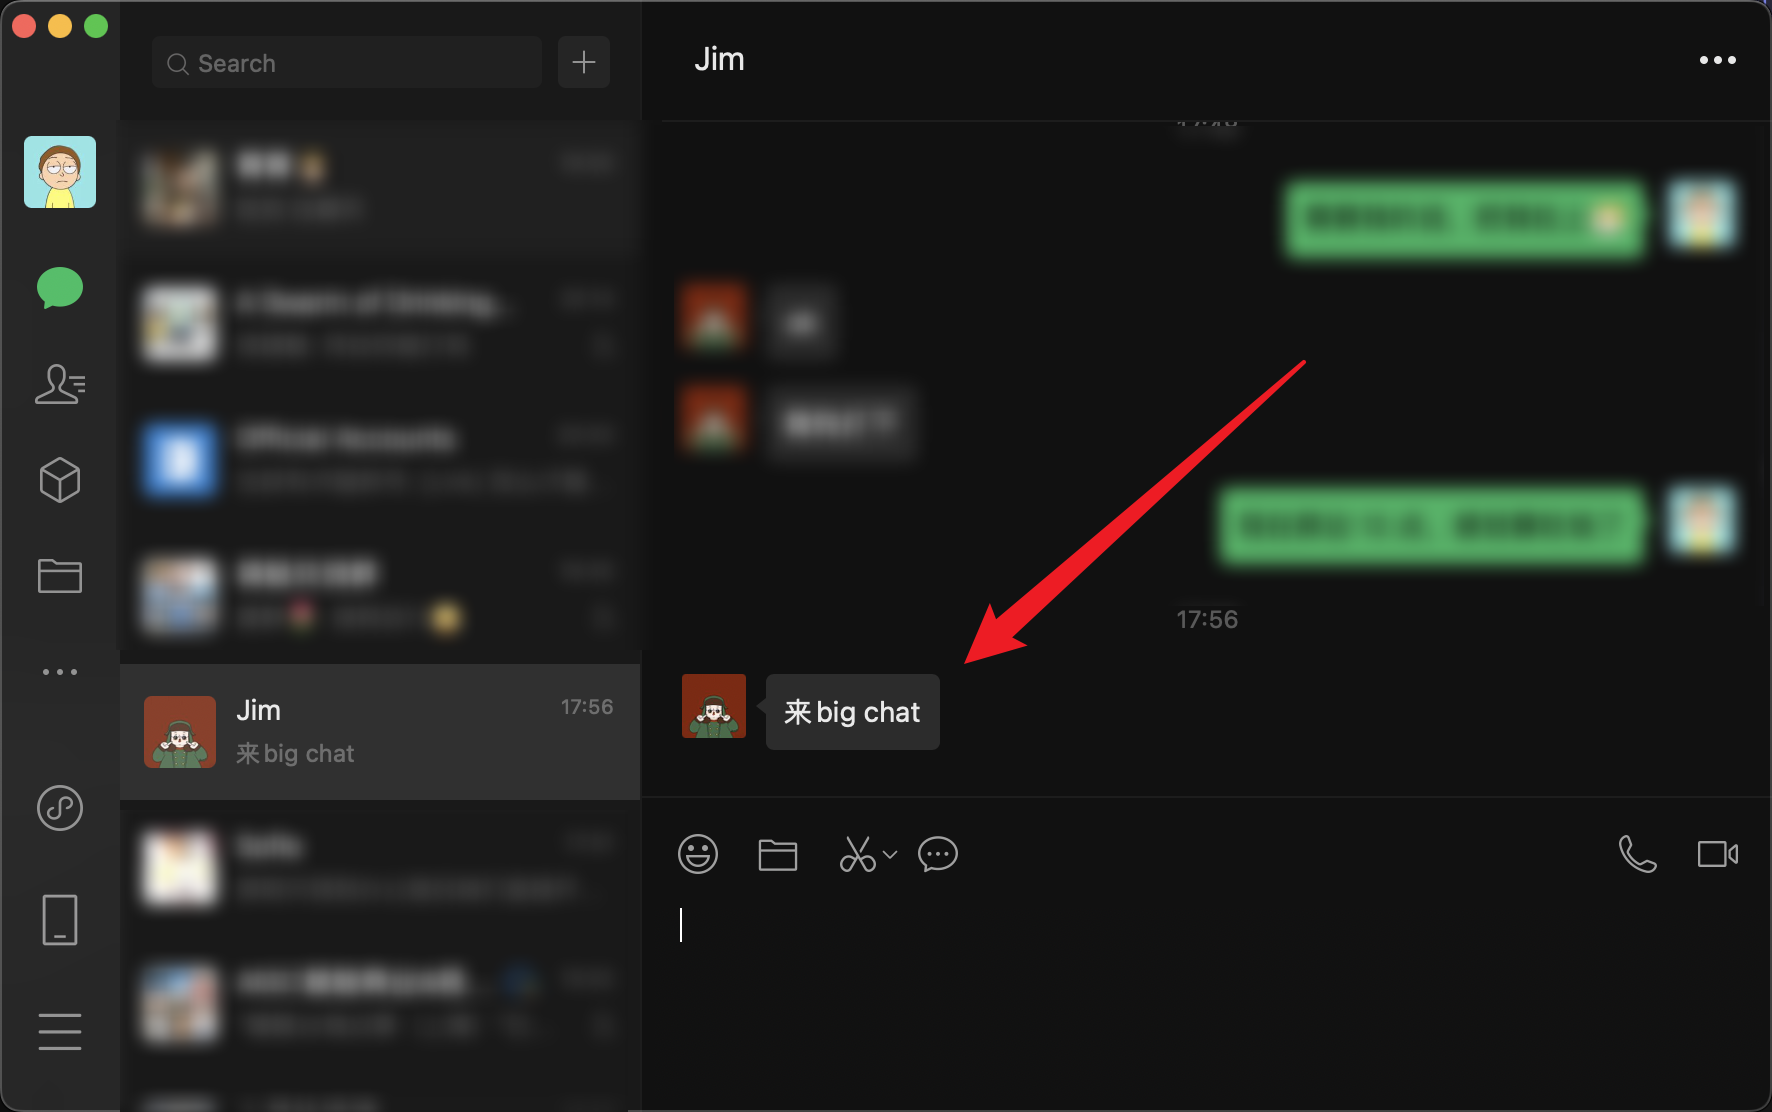
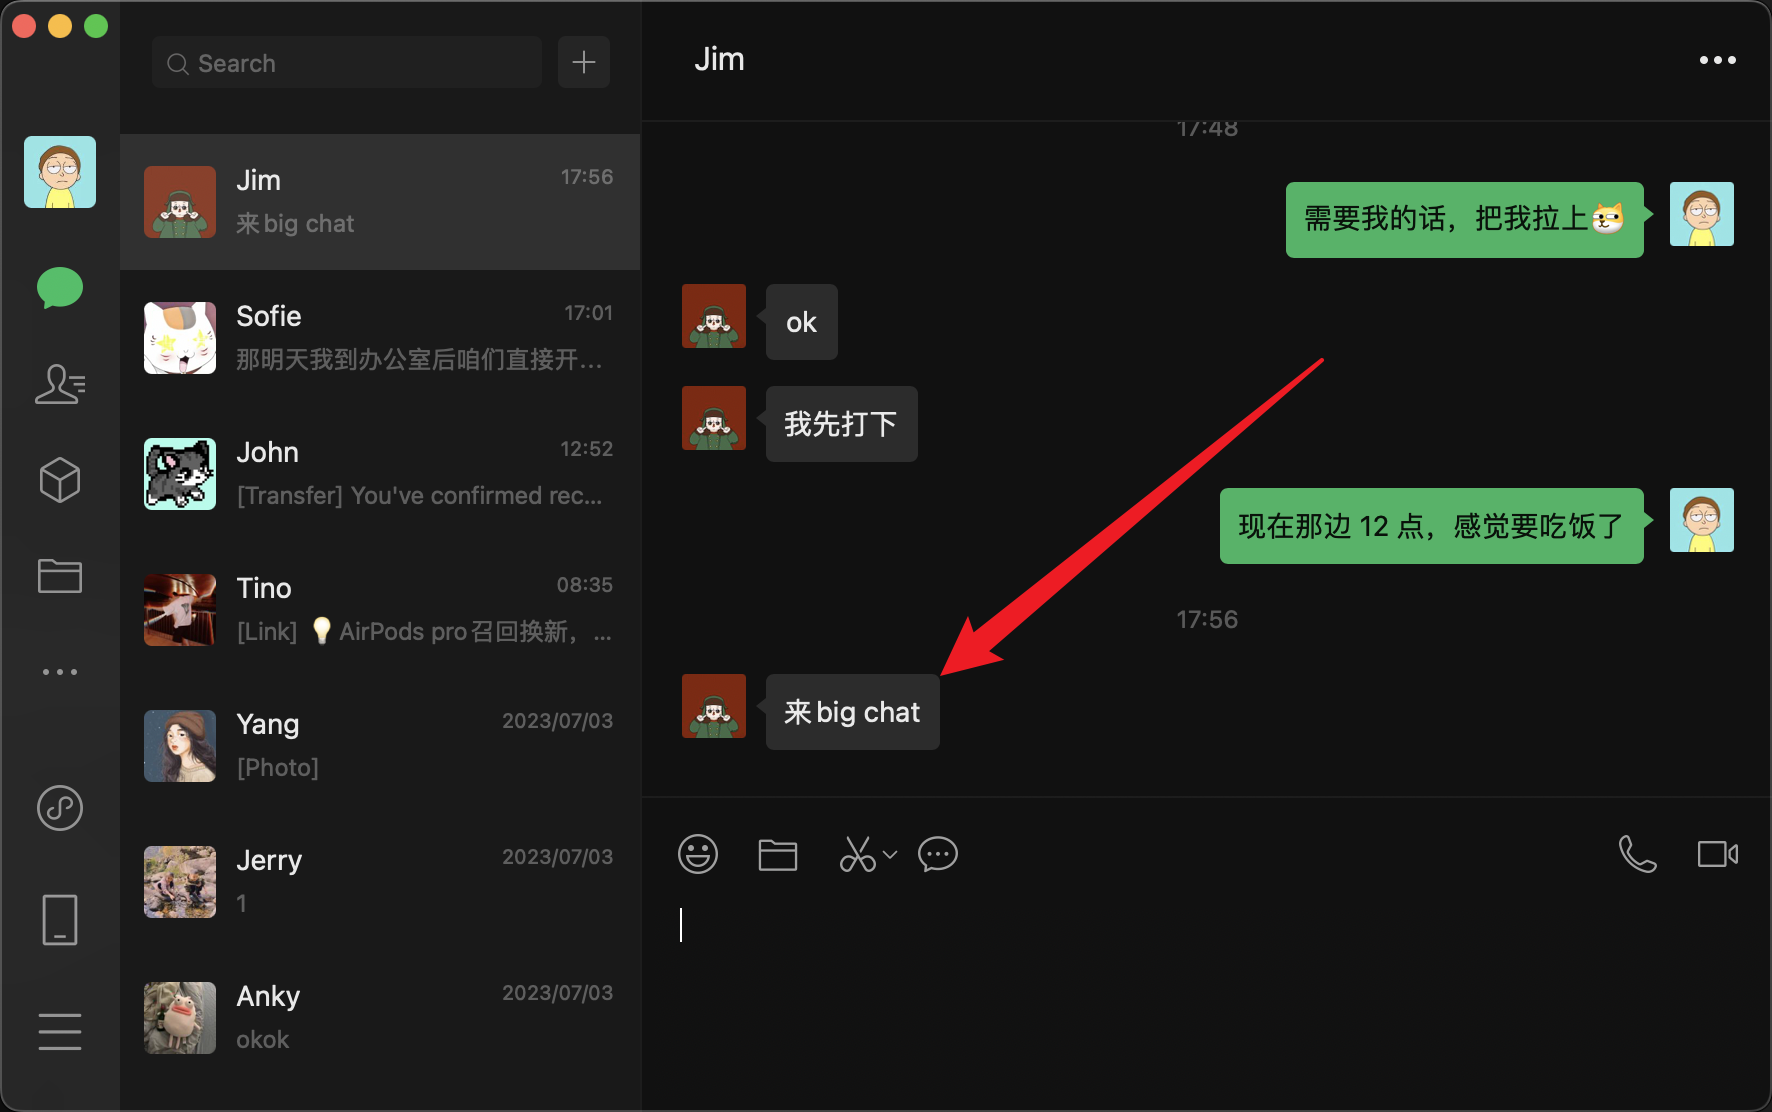
Update Rule “the-best-chat-tools-for-your-employees/rule”

diff --git a/rules/the-best-chat-tools-for-your-employees/rule.md b/rules/the-best-chat-tools-for-your-employees/rule.md
@@ -31,5 +31,5 @@ In China:
 :::
 
 ::: bad
-![Figure: Bad example - Use WeChat for work](use-wechat-for-work.png)
+![Figure: Bad example - Jim uses WeChat for work and asks Luke to come to the Big Chat room](use-wechat-for-work.png)
 :::
